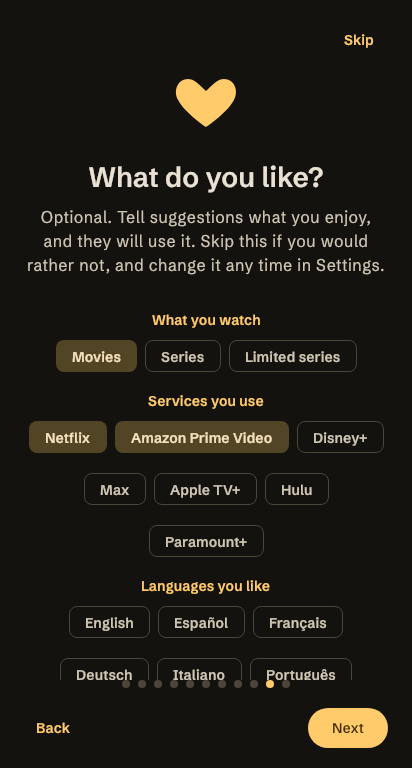
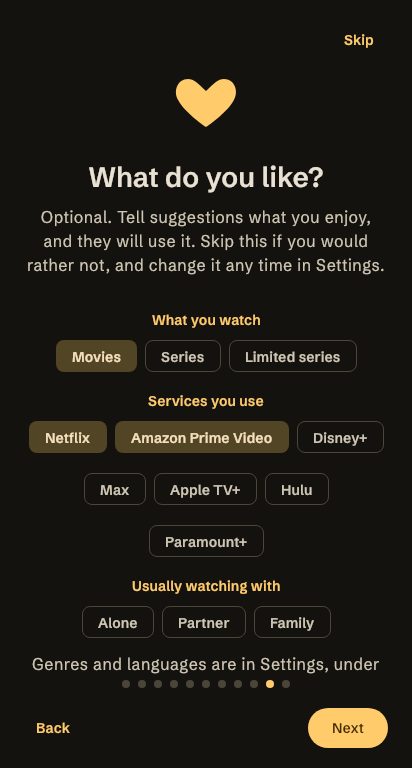
feat(onboarding): the Taste page offers company, not languages
#583 asks for formats, services and company on the first-run page, with
genres left in Settings. The page now offers those three; languages move
back to Settings only. Onboarding depends on :feature:nextpick:api for the
PickCompany choices, a peer's :api, as the rest of the page does.

Goldens re-recorded for the changed page; the Taste frames were opened.

Changed region(s): [[0.0874, 0.75, 0.9029, 0.9062]]

diff --git a/feature/onboarding/ui/src/commonMain/kotlin/com/codingpit/muviss/feature/onboarding/ui/OnboardingScreen.kt b/feature/onboarding/ui/src/commonMain/kotlin/com/codingpit/muviss/feature/onboarding/ui/OnboardingScreen.kt
@@ -46,6 +46,7 @@ import com.codingpit.muviss.core.designsystem.component.PosterSize
 import com.codingpit.muviss.core.designsystem.component.TmdbKeyDialog
 import com.codingpit.muviss.core.designsystem.icon.MuvissIcons
 import com.codingpit.muviss.core.designsystem.theme.MuvissSpacing
+import com.codingpit.muviss.feature.nextpick.api.PickCompany
 import com.codingpit.muviss.feature.onboarding.ui.generated.resources.Res
 import com.codingpit.muviss.feature.onboarding.ui.generated.resources.onboarding_back
 import com.codingpit.muviss.feature.onboarding.ui.generated.resources.onboarding_backup_body
@@ -86,11 +87,14 @@ import com.codingpit.muviss.feature.onboarding.ui.generated.resources.onboarding
 import com.codingpit.muviss.feature.onboarding.ui.generated.resources.onboarding_skip
 import com.codingpit.muviss.feature.onboarding.ui.generated.resources.onboarding_start
 import com.codingpit.muviss.feature.onboarding.ui.generated.resources.onboarding_taste_body
+import com.codingpit.muviss.feature.onboarding.ui.generated.resources.onboarding_taste_company
+import com.codingpit.muviss.feature.onboarding.ui.generated.resources.onboarding_taste_company_alone
+import com.codingpit.muviss.feature.onboarding.ui.generated.resources.onboarding_taste_company_family
+import com.codingpit.muviss.feature.onboarding.ui.generated.resources.onboarding_taste_company_partner
 import com.codingpit.muviss.feature.onboarding.ui.generated.resources.onboarding_taste_format_limited
 import com.codingpit.muviss.feature.onboarding.ui.generated.resources.onboarding_taste_format_movie
 import com.codingpit.muviss.feature.onboarding.ui.generated.resources.onboarding_taste_format_series
 import com.codingpit.muviss.feature.onboarding.ui.generated.resources.onboarding_taste_formats
-import com.codingpit.muviss.feature.onboarding.ui.generated.resources.onboarding_taste_languages
 import com.codingpit.muviss.feature.onboarding.ui.generated.resources.onboarding_taste_more
 import com.codingpit.muviss.feature.onboarding.ui.generated.resources.onboarding_taste_services
 import com.codingpit.muviss.feature.onboarding.ui.generated.resources.onboarding_taste_title
@@ -101,6 +105,7 @@ import com.codingpit.muviss.feature.onboarding.ui.generated.resources.onboarding
 import com.codingpit.muviss.feature.onboarding.ui.generated.resources.onboarding_welcome_title
 import com.codingpit.muviss.feature.settings.api.TasteChoices
 import com.codingpit.muviss.feature.settings.api.TasteItem
+import com.codingpit.muviss.feature.settings.api.TasteKind
 import com.codingpit.muviss.feature.settings.api.TmdbDataSource
 import org.jetbrains.compose.resources.stringResource
 
@@ -308,9 +313,10 @@ private fun PageContent(
 
         OnboardingPage.TASTE -> Plain(MuvissIcons.Favorite, Res.string.onboarding_taste_title, Res.string.onboarding_taste_body) {
             val formats = TasteChoices.formats.associateWith { formatName(it) }
+            val companies = PickCompany.entries.map { TasteItem(TasteKind.COMPANY, it.name, it.name) }.associateWith { companyName(it) }
             TasteGroup(Res.string.onboarding_taste_formats, TasteChoices.formats, state.likedTaste, onTasteToggled) { formats.getValue(it) }
             TasteGroup(Res.string.onboarding_taste_services, TasteChoices.services, state.likedTaste, onTasteToggled) { it.label }
-            TasteGroup(Res.string.onboarding_taste_languages, TasteChoices.languages, state.likedTaste, onTasteToggled) { it.label }
+            TasteGroup(Res.string.onboarding_taste_company, companies.keys.toList(), state.likedTaste, onTasteToggled) { companies.getValue(it) }
             Spacer(Modifier.height(MuvissSpacing.s))
             PageText(stringResource(Res.string.onboarding_taste_more))
         }
@@ -354,13 +360,23 @@ private fun TasteGroup(
     }
 }
 
-/** The formats are stored as keys, so their names are localized here; services and languages carry their own. */
+/** The formats are stored as keys, so their names are localized here; services carry their own. */
 @Composable
 private fun formatName(item: TasteItem): String = stringResource(
     when (item.value) {
         "SERIES" -> Res.string.onboarding_taste_format_series
         "LIMITED_SERIES" -> Res.string.onboarding_taste_format_limited
         else -> Res.string.onboarding_taste_format_movie
+    },
+)
+
+/** The company choices are stored as the Pick Session's enum names, so their labels are localized here. */
+@Composable
+private fun companyName(item: TasteItem): String = stringResource(
+    when (item.value) {
+        "PARTNER" -> Res.string.onboarding_taste_company_partner
+        "FAMILY" -> Res.string.onboarding_taste_company_family
+        else -> Res.string.onboarding_taste_company_alone
     },
 )
 

diff --git a/website/src/i18n/en.ts b/website/src/i18n/en.ts
@@ -57,7 +57,7 @@ export const en = {
     lede: "Everything here is free — no paywall on the basics.",
     items: [
       { icon: "search", title: "Search & discover", body: "Any movie or show from TMDB, plus For you, Popular now and browsing by genre." },
-      { icon: "tv", title: "What's next?", body: "Finished something, or not sure what to watch? A short set of questions finds your next pick, from your list or from new titles, and says why it was chosen. Online, it can also look for more like what you just finished. Offline, it picks from your list. Choose how many questions it asks, whether it shows one pick or a short list, or turn the prompt off, in Settings. You can also say what you like: on the first-run introduction, formats, services and languages; in Settings, genres, formats, services and company." },
+      { icon: "tv", title: "What's next?", body: "Finished something, or not sure what to watch? A short set of questions finds your next pick, from your list or from new titles, and says why it was chosen. Online, it can also look for more like what you just finished. Offline, it picks from your list. Choose how many questions it asks, whether it shows one pick or a short list, or turn the prompt off, in Settings. You can also say what you like in Settings: genres, formats, services, languages and company. The first-run introduction asks about formats, services and company." },
       { icon: "search", title: "Mute what you don't watch", body: "Talk shows, news and reality TV are left out of Discover, your triage deck and What's next? picks by default. Pick any genres to mute in Settings, or show them again with one tap." },
       { icon: "tv", title: "Where to watch", body: "See which streaming, rental and purchase services carry a title in your region." },
       { icon: "grid", title: "Your library", body: "Filter by status or favourites, sort by date added, rating or title." },

diff --git a/website/src/i18n/es.ts b/website/src/i18n/es.ts
@@ -53,7 +53,7 @@ export const es: Dictionary = {
     title: "Todo lo que necesitas para llevar la cuenta",
     lede: "Todo esto es gratis — lo básico no se paga.",
     items: [
-      { icon: "tv", title: "¿Qué sigue?", body: "¿Has terminado algo, o no sabes qué ver? Unas pocas preguntas dan con tu próxima elección, de tu lista o de títulos nuevos, y te dicen por qué. Con conexión, también puede buscar algo parecido a lo que acabas de terminar. Sin conexión, elige de tu lista. Elige cuántas preguntas hace, si muestra una recomendación o una lista corta, o apaga el aviso, en Ajustes. También puedes decir lo que te gusta: en la introducción inicial, formatos, servicios e idiomas; en Ajustes, géneros, formatos, servicios y compañía." },
+      { icon: "tv", title: "¿Qué sigue?", body: "¿Has terminado algo, o no sabes qué ver? Unas pocas preguntas dan con tu próxima elección, de tu lista o de títulos nuevos, y te dicen por qué. Con conexión, también puede buscar algo parecido a lo que acabas de terminar. Sin conexión, elige de tu lista. Elige cuántas preguntas hace, si muestra una recomendación o una lista corta, o apaga el aviso, en Ajustes. También puedes decir lo que te gusta en Ajustes: géneros, formatos, servicios, idiomas y compañía. La introducción inicial pregunta por formatos, servicios y compañía." },
       { icon: "search", title: "Silencia lo que no ves", body: "Los programas de entrevistas, las noticias y la telerrealidad no aparecen por defecto en Descubrir, en tu mazo de triaje ni en «¿Qué sigue?». Elige en Ajustes qué géneros silenciar, o vuelve a verlos con un toque." },
       { icon: "search", title: "Busca y descubre", body: "Cualquier película o serie de TMDB, además de Para ti, Populares y géneros." },
       { icon: "tv", title: "Dónde verla", body: "Qué plataformas, alquileres y tiendas tienen cada título en tu país." },

diff --git a/docs/EPICS.md b/docs/EPICS.md
@@ -397,7 +397,7 @@ Added 2026-10-17 from a grilling session. **ADR 0032**; vocabulary in `CONTEXT.m
 
 **Order.** #397 and #398 first and in parallel; #399 needs #398; #402 can start with #398 (claim its `.sqm` number when the branch opens); #400, #401 and #403 after #399.
 
-**Taste Profile (#402), `24.sqm` (schema v25, fixture `25.db`).** A synced `tasteProfile` table, one row per liked item keyed `KIND:value` with soft deletes, so two devices adding different items both keep them. Synced (`SyncChangeSet.tasteProfileItems`, `taste_profile` in Supabase `20261027000000`) and exported as a defaulted `tasteProfile` field that does not bump the format version, so older builds still read the file. Settings > Your taste is the editor. A genre is liked or muted, never both (`TasteRules`). The onboarding page is built (#583: the Taste page of the introduction, after Muted genres, formats/services/languages only, writing through `TasteProfileApi`; the fixed lists moved to `TasteChoices` in `:feature:settings:api`). Scoped out: the engine's rules (#584), a regional services catalogue (#585), pgTAP (#586) and the goldens and device walk (#587).
+**Taste Profile (#402), `24.sqm` (schema v25, fixture `25.db`).** A synced `tasteProfile` table, one row per liked item keyed `KIND:value` with soft deletes, so two devices adding different items both keep them. Synced (`SyncChangeSet.tasteProfileItems`, `taste_profile` in Supabase `20261027000000`) and exported as a defaulted `tasteProfile` field that does not bump the format version, so older builds still read the file. Settings > Your taste is the editor. A genre is liked or muted, never both (`TasteRules`). The onboarding page is built (#583: the Taste page of the introduction, after Muted genres, formats/services/languages only, formats, services and company, writing through `TasteProfileApi`; genres stay in Settings; the fixed lists moved to `TasteChoices` in `:feature:settings:api`). Scoped out: the engine's rules (#584), a regional services catalogue (#585), pgTAP (#586) and the goldens and device walk (#587).
 
 **#548 (candidate sources, closes #399's budget).** `RECOMMENDED` and `SIMILAR` are gathered for the anchor title only: `AnchorCandidates`, two page-1 requests, none for "something different", a format other than the anchor's, offline or "my list". A failed TMDB call is no candidates from that source, not a failed session. The anchor comes from the Completion sheet through `NextPickRoute(anchor)`. ANCHOR is asked **first** when a Completion opened the session, so a Quick session reaches it. "Another" is served from one gather. The request budget is pinned by `NextPickRequestBudgetTest`. Follow-ups, each with its own issue: #661 seed from `ForYouSeeding` when there is no anchor · #662 send the Muted Genres to `/discover` (`excludedGenreIds`) · #663 the streaming-services question and `onlyMyServices` · #664 entry points other than the Completion sheet pass no anchor. The anchor's genre overlap waits on #547 (the library stores genre names, not ids).
 
